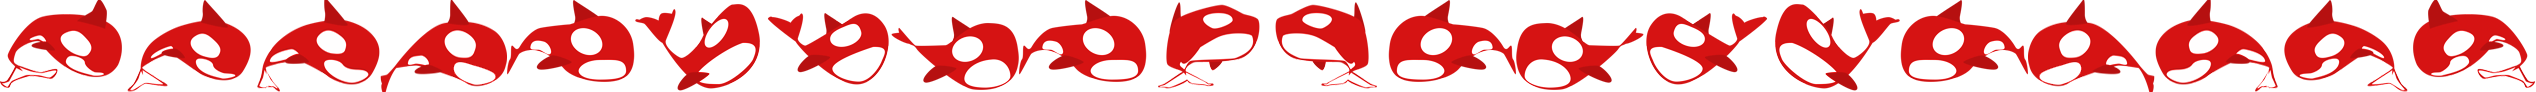
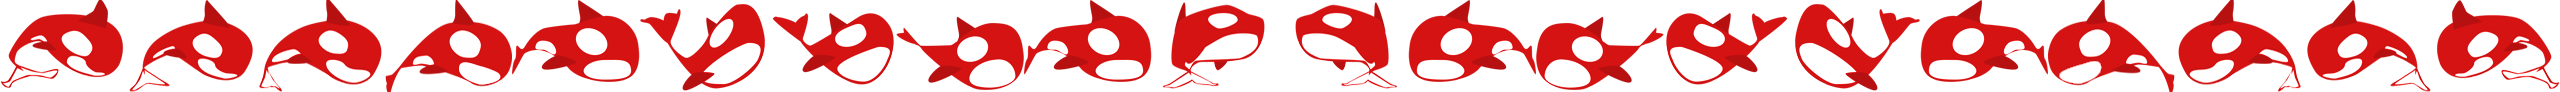
implemented whale and bird animations

diff --git a/js/main.js b/js/main.js
@@ -3,12 +3,15 @@
 var game = new Phaser.Game(1024, 768, Phaser.AUTO, 'mainDiv', { preload: preload, create: create, update: update });
 
 function preload() {
-    game.load.image('whaleGreen', 'assets/whale_gr.png');
-    game.load.image('whaleRed', 'assets/whale_re.png');
-    game.load.image('whaleBlue', 'assets/whale_blu.png');
-    game.load.image('whaleBlack', 'assets/whale_bl.png');
+    game.load.image('background', 'assets/background.png');
+    
+    game.load.spritesheet('whaleRed', 'assets/red.png', 128, 92);
+    game.load.spritesheet('whaleGreen', 'assets/green.png', 128, 92);
+    game.load.spritesheet('whaleBlue', 'assets/blue.png', 128, 92);
+    game.load.spritesheet('whaleBlack', 'assets/black.png', 128, 92);
 
-    game.load.image('bird', 'assets/bird.png');
+    //game.load.image('bird', 'assets/bird.png');
+    game.load.spritesheet('bird', 'assets/birdani.png', 88, 46);
     game.load.image('lazybound', 'assets/lazybound.png');
     game.load.script('input', 'js/input.js');
 }
@@ -21,6 +24,8 @@ function create() {
     //game.world.setBounds(0, 0, game.world.width,  game.world.height);
     game.physics.setBoundsToWorld();
     game.physics.startSystem(Phaser.Physics.P2JS);
+
+    game.add.sprite(0, 0, 'background');
 
     ggj.players = [];
     ggj.players[0] = createPlayer("whaleRed", 0);
@@ -53,12 +58,14 @@ function create() {
 
 function update() {
 
+    //moveThing(ggj.players[i], ggj.keyboard); 
     for (var i = 0; i < 4; i++) {
-        moveThing(ggj.players[i], navigator.getGamepads()[i]);    
+        moveThing(ggj.players[i], navigator.getGamepads()[i]);   
     }
 
 
     for (var i = 0; i < birds.length; i++) {
+        //birds.animations.play('right');
         if (birds[i].body && birds[i].body.x > game.world.width) {
             birds[i].destroy();
         }
@@ -72,6 +79,9 @@ function createBird() {
     ggj.bird.body.data.shapes[0].sensor = true;
     ggj.bird.events.onOutOfBounds.destroy = true;
     ggj.bird.body.velocity.x = 500;
+    //add(name, frames, frameRate, loop, useNumericIndex)
+    ggj.bird.animations.add('right', [8, 9, 10, 11 , 12, 13, 14, 15], 10, true);
+    ggj.bird.animations.play('right');
     var found = false;
     //ggj.bird.body.onBeginContact.add(hitBird);
 
@@ -125,6 +135,10 @@ function createPlayer(sprite, player) {
     newSprite.body.collideWorldBounds = true;
     newSprite.body.mass = .1;
     newSprite.body.fixedRotation = true;
+
+    newSprite.animations.add('right', [0, 1, 2, 3, 4, 5, 6, 7, 8, 9], 10, true);
+    newSprite.animations.add('left', [10, 11, 12, 13, 14, 15, 16, 17, 18, 19], 10, true);
+
     return newSprite;
 }
 

diff --git a/js/input.js b/js/input.js
@@ -4,11 +4,26 @@ ggj.gravity = 50;
 
 function moveThing(player, input) {
 
-    if (inSky(player, ggj.horizon)) {
+    var sky = inSky(player, ggj.horizon);
+
+    if (sky) {
         airMovement(player, input);
     } else {
         seaMovement(player, input);
     }
+
+    var upperBound = sky? 500 : 10;
+
+    //play(name, frameRate, loop, killOnComplete)
+    if (player.body.velocity.x <= upperBound && player.body.velocity.x >= -upperBound ) {
+        player.animations.stop();
+    } else if (player.body.velocity.x > 0) {
+        player.animations.play('right');
+    } else if (player.body.velocity.x < 0) {
+        player.animations.play('left');
+    }
+
+        // (player.body.velocity.x <= 10 && player.body.velocity.x >= -10)
 }
 
 function inSky(player, bound) {
